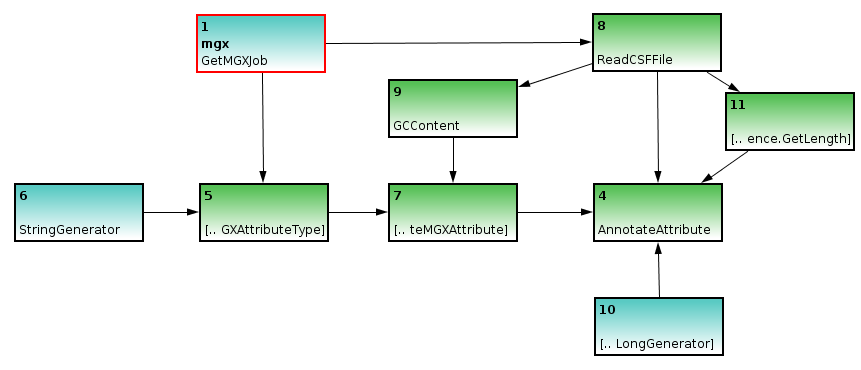
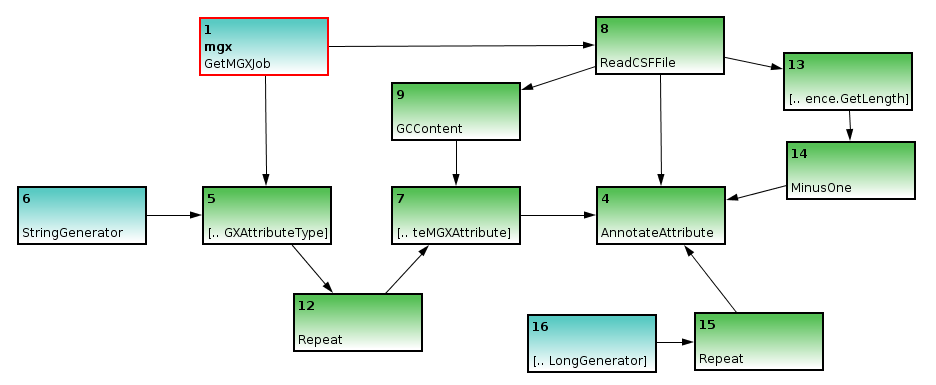
more updates

diff --git a/customanalysis.tex b/customanalysis.tex
@@ -142,21 +142,25 @@ provide the necessary metagenome sequences to be annotated. Still, there is no a
 In a second step, we use the \node{ReadCSF} node to obtain access to the individual metagenome sequences; as 
 MGX annotates sequences individually, a connection between \node{ReadCSF} and \node{AnnotateAttribute} is
 required (\ref{annot2}). Subsequently, we implement the actual analysis, which is provided by the \node{GCContent}
-node. It will process all sequences sequentially and the GC content will be used to create a corresponding
-attribute (\ref{annot3}).
+node. It will process all sequences and emit the corresponding GC content for each of them. To convert these values to
+appropriate ``attributes'', an ``attribute type'' is required for each value; therefore, a \node{Repeat}
+node is inserted between nodes 5 and 7 (\ref{annot3}).
 
 \begin{figure}[H]
 \centering
 \includegraphics[width=.8\textwidth]{img/conveyor/annotate_templ3}
 \caption[Metagenome annotation]{Step 2: The \node{GCContent} node represents the actual analysis step; it is used
-to determine the GC content of a DNA sequence, which will then be converted into an ``attribute''.}
+to determine the GC content of a DNA sequence, which will then be converted into an ``attribute''. Since an 
+``attribute type'' is required for each ``attribute'', a \node{Repeat} node is inserted between nodes 5 and 7.}
 \label{annot3}
 \end{figure}
 
 Finally, as an annotation always refers to only a part of a sequence, we will need to generate the corresponding
 start and end coordinates; since GC content refers to the full sequence, we can use an \node{ULongGenerator} node
-configured to emit 0 (MGX uses 0-based coordinates) to generate the start coordinate; the end coordinate can be
-created based on the sequences' length, obtained through the \node{GetLength} node (\ref{annot4}).\\
+configured to emit 0 (MGX uses 0-based coordinates) to generate the start coordinate; this node needs to be connected to
+a \node{Repeat} node to generate a series of 0s.\\
+The end coordinate can be created based on the sequences' length, with 1 subtracted, obtained through the
+\node{GetLength} and \node{MinusOne} nodes (\ref{annot4}).\\
 The \node{GetMGXJob} node will retain its red border due to missing configuration; this, however, can be
 ignored, as appropriate configuration will be provided by the MGX framework automatically.
 
@@ -164,7 +168,8 @@ ignored, as appropriate configuration will be provided by the MGX framework auto
 \centering
 \includegraphics[width=.9\textwidth]{img/conveyor/annotate_templ4}
 \caption[Metagenome annotation]{Completing the workflow: the \node{ULongGenerator} and \node{GetLength} nodes
-are added to specify coordinates for the subregion of the DNA sequence described by the ``attribute''.}
+are added to specify coordinates for the subregion of the DNA sequence described by the ``attribute''; the
+start coordinate is simply repeated, while 1 is subtracted from the sequences length due to 0-based coordinates.}
 \label{annot4}
 \end{figure}
 
